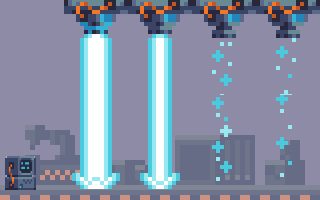
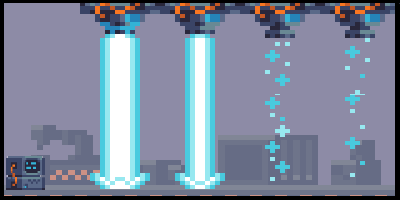
Implemented the new electricity room

Changed region(s): [[0.0, 0.0, 1.0, 1.0], [0.0625, 0.81, 0.0938, 0.84]]

diff --git a/core/src/info/projekt/jonas/storage/GameStorage.java b/core/src/info/projekt/jonas/storage/GameStorage.java
@@ -2,6 +2,7 @@ package info.projekt.jonas.storage;
 
 import com.badlogic.gdx.graphics.Texture;
 import info.projekt.jonas.rooms.DebugRoom;
+import info.projekt.jonas.rooms.ElectricityRoom;
 import info.projekt.jonas.rooms.EmptyRoom;
 import info.projekt.jonas.rooms.Room;
 
@@ -46,7 +47,7 @@ public class GameStorage implements Serializable {
 	public void debug() {
 		for (int x = 0; x < ROOMS.length; x++) {
 			for (int y = 0; y < ROOMS[0].length; y++) {
-				ROOMS[x][y] = new EmptyRoom();
+				ROOMS[x][y] = new ElectricityRoom();
 			}
 		}
 	}

diff --git a/core/src/info/projekt/jonas/rooms/ElectricityRoom.java b/core/src/info/projekt/jonas/rooms/ElectricityRoom.java
@@ -1,0 +1,11 @@
+package info.projekt.jonas.rooms;
+
+import com.badlogic.gdx.graphics.Texture;
+
+public class ElectricityRoom extends Room {
+
+	public ElectricityRoom() {
+		super(4, new Texture[]{new Texture("room_engine.png")});
+	}
+
+}
